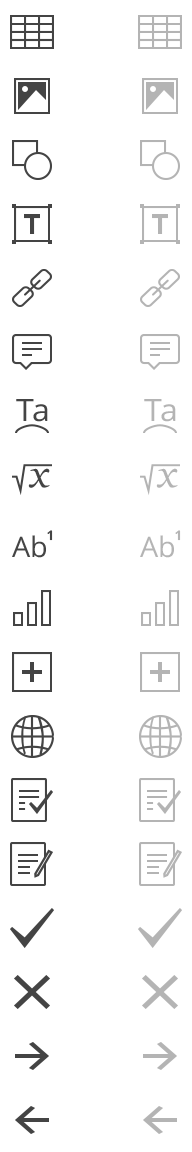
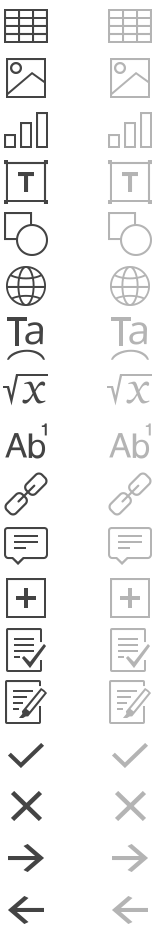
debug toolbar's big buttons

diff --git a/apps/presentationeditor/main/resources/less/toolbar.less b/apps/presentationeditor/main/resources/less/toolbar.less
@@ -258,13 +258,13 @@
 .toolbar-btn-icon(btn-align-shape,      38, @toolbar-icon-size);
 
 //.toolbar-btn-icon(btn-insertshape,      39, @toolbar-icon-size);
-.button-normal-icon(btn-insertshape,      39, @toolbar-icon-size);
+//.button-normal-icon(btn-insertshape,      39, @toolbar-icon-size);
 
-.toolbar-btn-icon(btn-inserttext,       40, @toolbar-icon-size);
-.toolbar-btn-icon(btn-inserthyperlink,  41, @toolbar-icon-size);
-.toolbar-btn-icon(btn-inserttable,      42, @toolbar-icon-size);
-.toolbar-btn-icon(btn-insertimage,      43, @toolbar-icon-size);
-.toolbar-btn-icon(btn-insertchart,      44, @toolbar-icon-size);
+//.toolbar-btn-icon(btn-inserttext,       40, @toolbar-icon-size);
+//.toolbar-btn-icon(btn-inserthyperlink,  41, @toolbar-icon-size);
+//.toolbar-btn-icon(btn-inserttable,      42, @toolbar-icon-size);
+//.toolbar-btn-icon(btn-insertimage,      43, @toolbar-icon-size);
+//.toolbar-btn-icon(btn-insertchart,      44, @toolbar-icon-size);
 .toolbar-btn-icon(btn-colorschemas,     45, @toolbar-icon-size);
 .toolbar-btn-icon(btn-slidesize,        46, @toolbar-icon-size);
 .toolbar-btn-icon(btn-hidebars,         47, @toolbar-icon-size);
@@ -272,21 +272,21 @@
 .toolbar-btn-icon(btn-zoomin,           61, @toolbar-icon-size);
 .toolbar-btn-icon(btn-zoomout,          60, @toolbar-icon-size);
 .toolbar-btn-icon(btn-save-coauth,      69, @toolbar-icon-size);
-.toolbar-btn-icon(btn-insertequation,   74, @toolbar-icon-size);
+//.toolbar-btn-icon(btn-insertequation,   74, @toolbar-icon-size);
 
 // add slide
-.btn-toolbar .btn-addslide {background-position: 0 -120px;}
-.btn-toolbar.active   > .btn-addslide,
-.btn-toolbar:active   > .btn-addslide {background-position: -20px -120px;}
-.btn-toolbar.disabled:not(.active) > .btn-addslide {background-position: -40px -120px;}
-.btn-toolbar.disabled > .btn-addslide {background-position: -20px -120px; opacity: 0.6;}
+//.btn-toolbar .btn-addslide {background-position: 0 -120px;}
+//.btn-toolbar.active   > .btn-addslide,
+//.btn-toolbar:active   > .btn-addslide {background-position: -20px -120px;}
+//.btn-toolbar.disabled:not(.active) > .btn-addslide {background-position: -40px -120px;}
+//.btn-toolbar.disabled > .btn-addslide {background-position: -20px -120px; opacity: 0.6;}
 
-.btn-toolbar.large .btn-addslide {background-position: 0px -5px;}
-//.btn-group.open .btn-toolbar.large > .btn-addslide,
-.btn-toolbar.large.active   > .btn-addslide,
-.btn-toolbar.large:active   > .btn-addslide {background-position: 0px -45px;}
-.btn-toolbar.large.disabled:not(.active) > .btn-addslide {background-position: 0px -85px;}
-.btn-toolbar.large.disabled > .btn-addslide {background-position: 0px -45px; opacity: 0.6;}
+//.btn-toolbar.large .btn-addslide {background-position: 0px -5px;}
+////.btn-group.open .btn-toolbar.large > .btn-addslide,
+//.btn-toolbar.large.active   > .btn-addslide,
+//.btn-toolbar.large:active   > .btn-addslide {background-position: 0px -45px;}
+//.btn-toolbar.large.disabled:not(.active) > .btn-addslide {background-position: 0px -85px;}
+//.btn-toolbar.large.disabled > .btn-addslide {background-position: 0px -45px; opacity: 0.6;}
 
 @menu-icon-size: 22px;
 .menu-btn-icon(mnu-align-center,         0, @menu-icon-size);

diff --git a/apps/spreadsheeteditor/main/resources/less/toolbar.less b/apps/spreadsheeteditor/main/resources/less/toolbar.less
@@ -128,9 +128,9 @@
 .toolbar-btn-icon(btn-border-center,    31, @toolbar-icon-size);
 .toolbar-btn-icon(btn-border-hmiddle,   32, @toolbar-icon-size);
 .toolbar-btn-icon(btn-border-vmiddle,   33, @toolbar-icon-size);
-.toolbar-btn-icon(btn-insertimage,      34, @toolbar-icon-size);
-.toolbar-btn-icon(btn-inserthyperlink,  35, @toolbar-icon-size);
-.toolbar-btn-icon(btn-insertchart,      36, @toolbar-icon-size);
+//.toolbar-btn-icon(btn-insertimage,      34, @toolbar-icon-size);
+//.toolbar-btn-icon(btn-inserthyperlink,  35, @toolbar-icon-size);
+//.toolbar-btn-icon(btn-insertchart,      36, @toolbar-icon-size);
 .toolbar-btn-icon(btn-copy,             37, @toolbar-icon-size);
 .toolbar-btn-icon(btn-paste,            38, @toolbar-icon-size);
 .toolbar-btn-icon(btn-synch,            39, @toolbar-icon-size);
@@ -141,8 +141,8 @@
 .toolbar-btn-icon(btn-incfont,          44, @toolbar-icon-size);
 .toolbar-btn-icon(btn-decfont,          45, @toolbar-icon-size);
 .toolbar-btn-icon(btn-text-orient,      46, @toolbar-icon-size);
-.toolbar-btn-icon(btn-insertshape,      47, @toolbar-icon-size);
-.toolbar-btn-icon(btn-text,             48, @toolbar-icon-size);
+//.toolbar-btn-icon(btn-insertshape,      47, @toolbar-icon-size);
+//.toolbar-btn-icon(btn-text,             48, @toolbar-icon-size);
 .toolbar-btn-icon(btn-sort-up,          49, @toolbar-icon-size);
 .toolbar-btn-icon(btn-clear-filter,     50, @toolbar-icon-size);
 .toolbar-btn-icon(btn-percent-style,    51, @toolbar-icon-size);
@@ -164,7 +164,7 @@
 .toolbar-btn-icon(btn-border-diagdown,  43, @toolbar-icon-size);
 
 .toolbar-btn-icon(btn-named-range,      77, @toolbar-icon-size);
-.toolbar-btn-icon(btn-insertequation,   82, @toolbar-icon-size);
+//.toolbar-btn-icon(btn-insertequation,   82, @toolbar-icon-size);
 
 @menu-icon-size: 22px;
 .menu-btn-icon(mnu-align-center,         0, @menu-icon-size);

diff --git a/apps/documenteditor/main/resources/less/toolbar.less b/apps/documenteditor/main/resources/less/toolbar.less
@@ -225,7 +225,6 @@
 }
 
 @toolbar-icon-size: 20px;
-@toolbar-big-icon-size: 26px;
 .button-normal-icon(btn-align-center,     0, @toolbar-icon-size);
 .button-normal-icon(btn-align-just,       1, @toolbar-icon-size);
 .button-normal-icon(btn-align-left,       2, @toolbar-icon-size);
@@ -301,24 +300,6 @@
 //.button-normal-icon(review-next,          80, @toolbar-icon-size);
 //.button-normal-icon(review-save,          81, @toolbar-icon-size);
 //.button-normal-icon(review-deny,          82, @toolbar-icon-size);
-
-.button-normal-icon(btn-inserttable,      0, @toolbar-big-icon-size);
-.button-normal-icon(btn-insertimage,      1, @toolbar-big-icon-size);
-.button-normal-icon(btn-insertshape,      2, @toolbar-big-icon-size);
-.button-normal-icon(btn-text,             3, @toolbar-big-icon-size);
-.button-normal-icon(btn-inserthyperlink,  4, @toolbar-big-icon-size);
-.button-normal-icon(~'x-huge .btn-menu-comments', 5, @toolbar-big-icon-size);
-.button-normal-icon(btn-textart,          6, @toolbar-big-icon-size);
-.button-normal-icon(btn-insertequation,   7, @toolbar-big-icon-size);
-.button-normal-icon(btn-insertchart,      9, @toolbar-big-icon-size);
-.button-normal-icon(btn-notes,            8, @toolbar-big-icon-size);
-.button-normal-icon(btn-ic-doclang,       11, @toolbar-big-icon-size);
-.button-normal-icon(~'x-huge .btn-ic-docspell', 12, @toolbar-big-icon-size);
-.button-normal-icon(~'x-huge .btn-ic-review', 13, @toolbar-big-icon-size);
-.button-normal-icon(review-save,          14, @toolbar-big-icon-size);
-.button-normal-icon(review-deny,          15, @toolbar-big-icon-size);
-.button-normal-icon(review-next,          16, @toolbar-big-icon-size);
-.button-normal-icon(review-prev,          17, @toolbar-big-icon-size);
 
 @menu-icon-size: 22px;
 .menu-icon-normal(mnu-wrap-inline,          0, @menu-icon-size);

diff --git a/apps/common/main/resources/less/toolbar.less b/apps/common/main/resources/less/toolbar.less
@@ -261,3 +261,23 @@
 }
 
 .button-otherstates-icon2(btn-toolbar, @toolbar-icon-size);
+
+@toolbar-big-icon-size: 26px;
+.button-normal-icon(btn-inserttable,      0, @toolbar-big-icon-size);
+.button-normal-icon(btn-insertimage,      1, @toolbar-big-icon-size);
+.button-normal-icon(btn-insertchart,      2, @toolbar-big-icon-size);
+.button-normal-icon(btn-text,             3, @toolbar-big-icon-size);
+.button-normal-icon(btn-insertshape,      4, @toolbar-big-icon-size);
+.button-normal-icon(btn-ic-doclang,       5, @toolbar-big-icon-size);
+.button-normal-icon(btn-textart,          6, @toolbar-big-icon-size);
+.button-normal-icon(btn-insertequation,   7, @toolbar-big-icon-size);
+.button-normal-icon(btn-notes,            8, @toolbar-big-icon-size);
+.button-normal-icon(btn-inserthyperlink,  9, @toolbar-big-icon-size);
+.button-normal-icon(~'x-huge .btn-menu-comments', 10, @toolbar-big-icon-size);
+.button-normal-icon(btn-addslide,         11, @toolbar-big-icon-size);
+.button-normal-icon(~'x-huge .btn-ic-docspell', 12, @toolbar-big-icon-size);
+.button-normal-icon(~'x-huge .btn-ic-review', 13, @toolbar-big-icon-size);
+.button-normal-icon(review-save,          14, @toolbar-big-icon-size);
+.button-normal-icon(review-deny,          15, @toolbar-big-icon-size);
+.button-normal-icon(review-next,          16, @toolbar-big-icon-size);
+.button-normal-icon(review-prev,          17, @toolbar-big-icon-size);

diff --git a/apps/presentationeditor/main/app/view/Toolbar.js b/apps/presentationeditor/main/app/view/Toolbar.js
@@ -1016,7 +1016,7 @@ define([
                     slot: '.slot-inserttext',
                     btnconfig: {
                         cls         : 'btn-toolbar x-huge icon-top',
-                        iconCls     : 'btn-inserttext',
+                        iconCls     : 'btn-text',
                         caption     : me.capInsertText,
                         lock        : [PE.enumLock.slideDeleted, PE.enumLock.lostConnect, PE.enumLock.noSlides, PE.enumLock.disableOnStart],
                         enableToggle: true,

diff --git a/apps/presentationeditor/main/app/controller/Toolbar.js b/apps/presentationeditor/main/app/controller/Toolbar.js
@@ -2068,7 +2068,7 @@ define([
 
                     var button = new Common.UI.Button({
                         cls: _cls,
-                        iconCls: 'svgicon svg-btn-comments',
+                        iconCls: 'btn-menu-comments',
                         caption: me.toolbar.capBtnComment
                     }).render( slots.eq(index) );
 

diff --git a/apps/spreadsheeteditor/main/app/controller/Toolbar.js b/apps/spreadsheeteditor/main/app/controller/Toolbar.js
@@ -2893,7 +2893,7 @@ define([
 
                     var button = new Common.UI.Button({
                         cls: _cls,
-                        iconCls: 'svgicon svg-btn-comments',
+                        iconCls: 'btn-menu-comments',
                         caption: me.toolbar.capBtnComment
                     }).render( slots.eq(index) );
 
